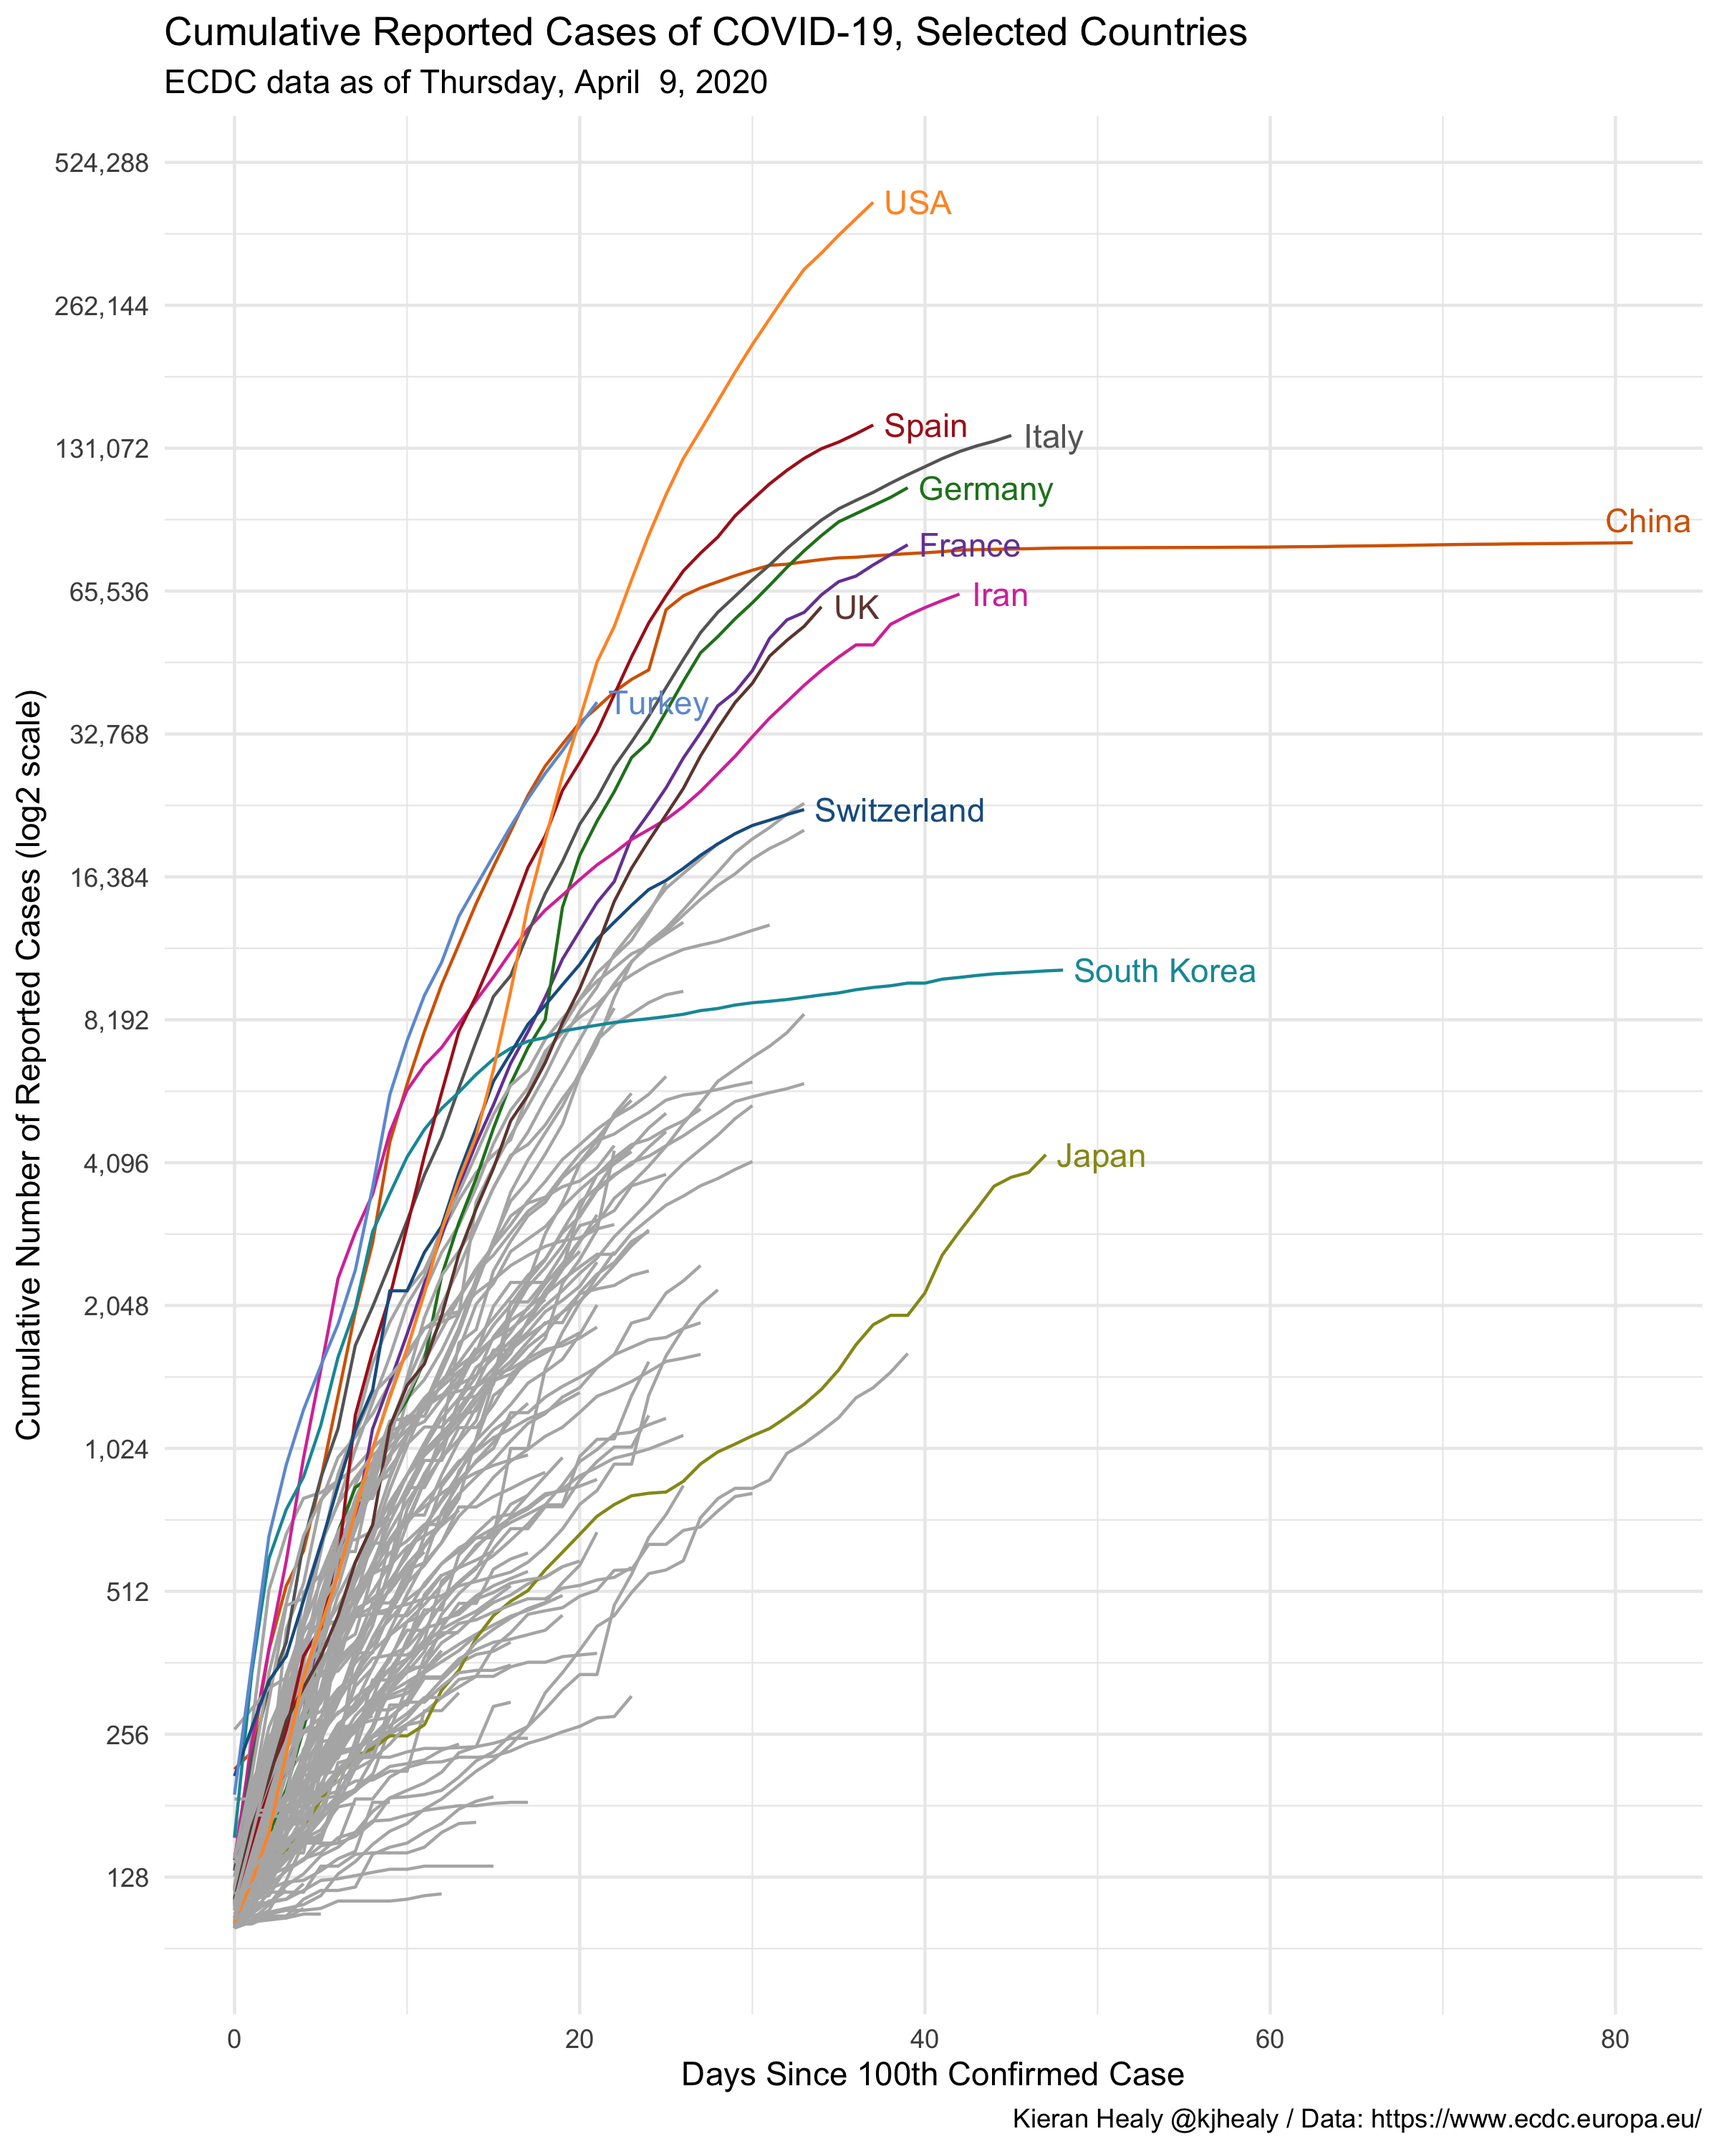
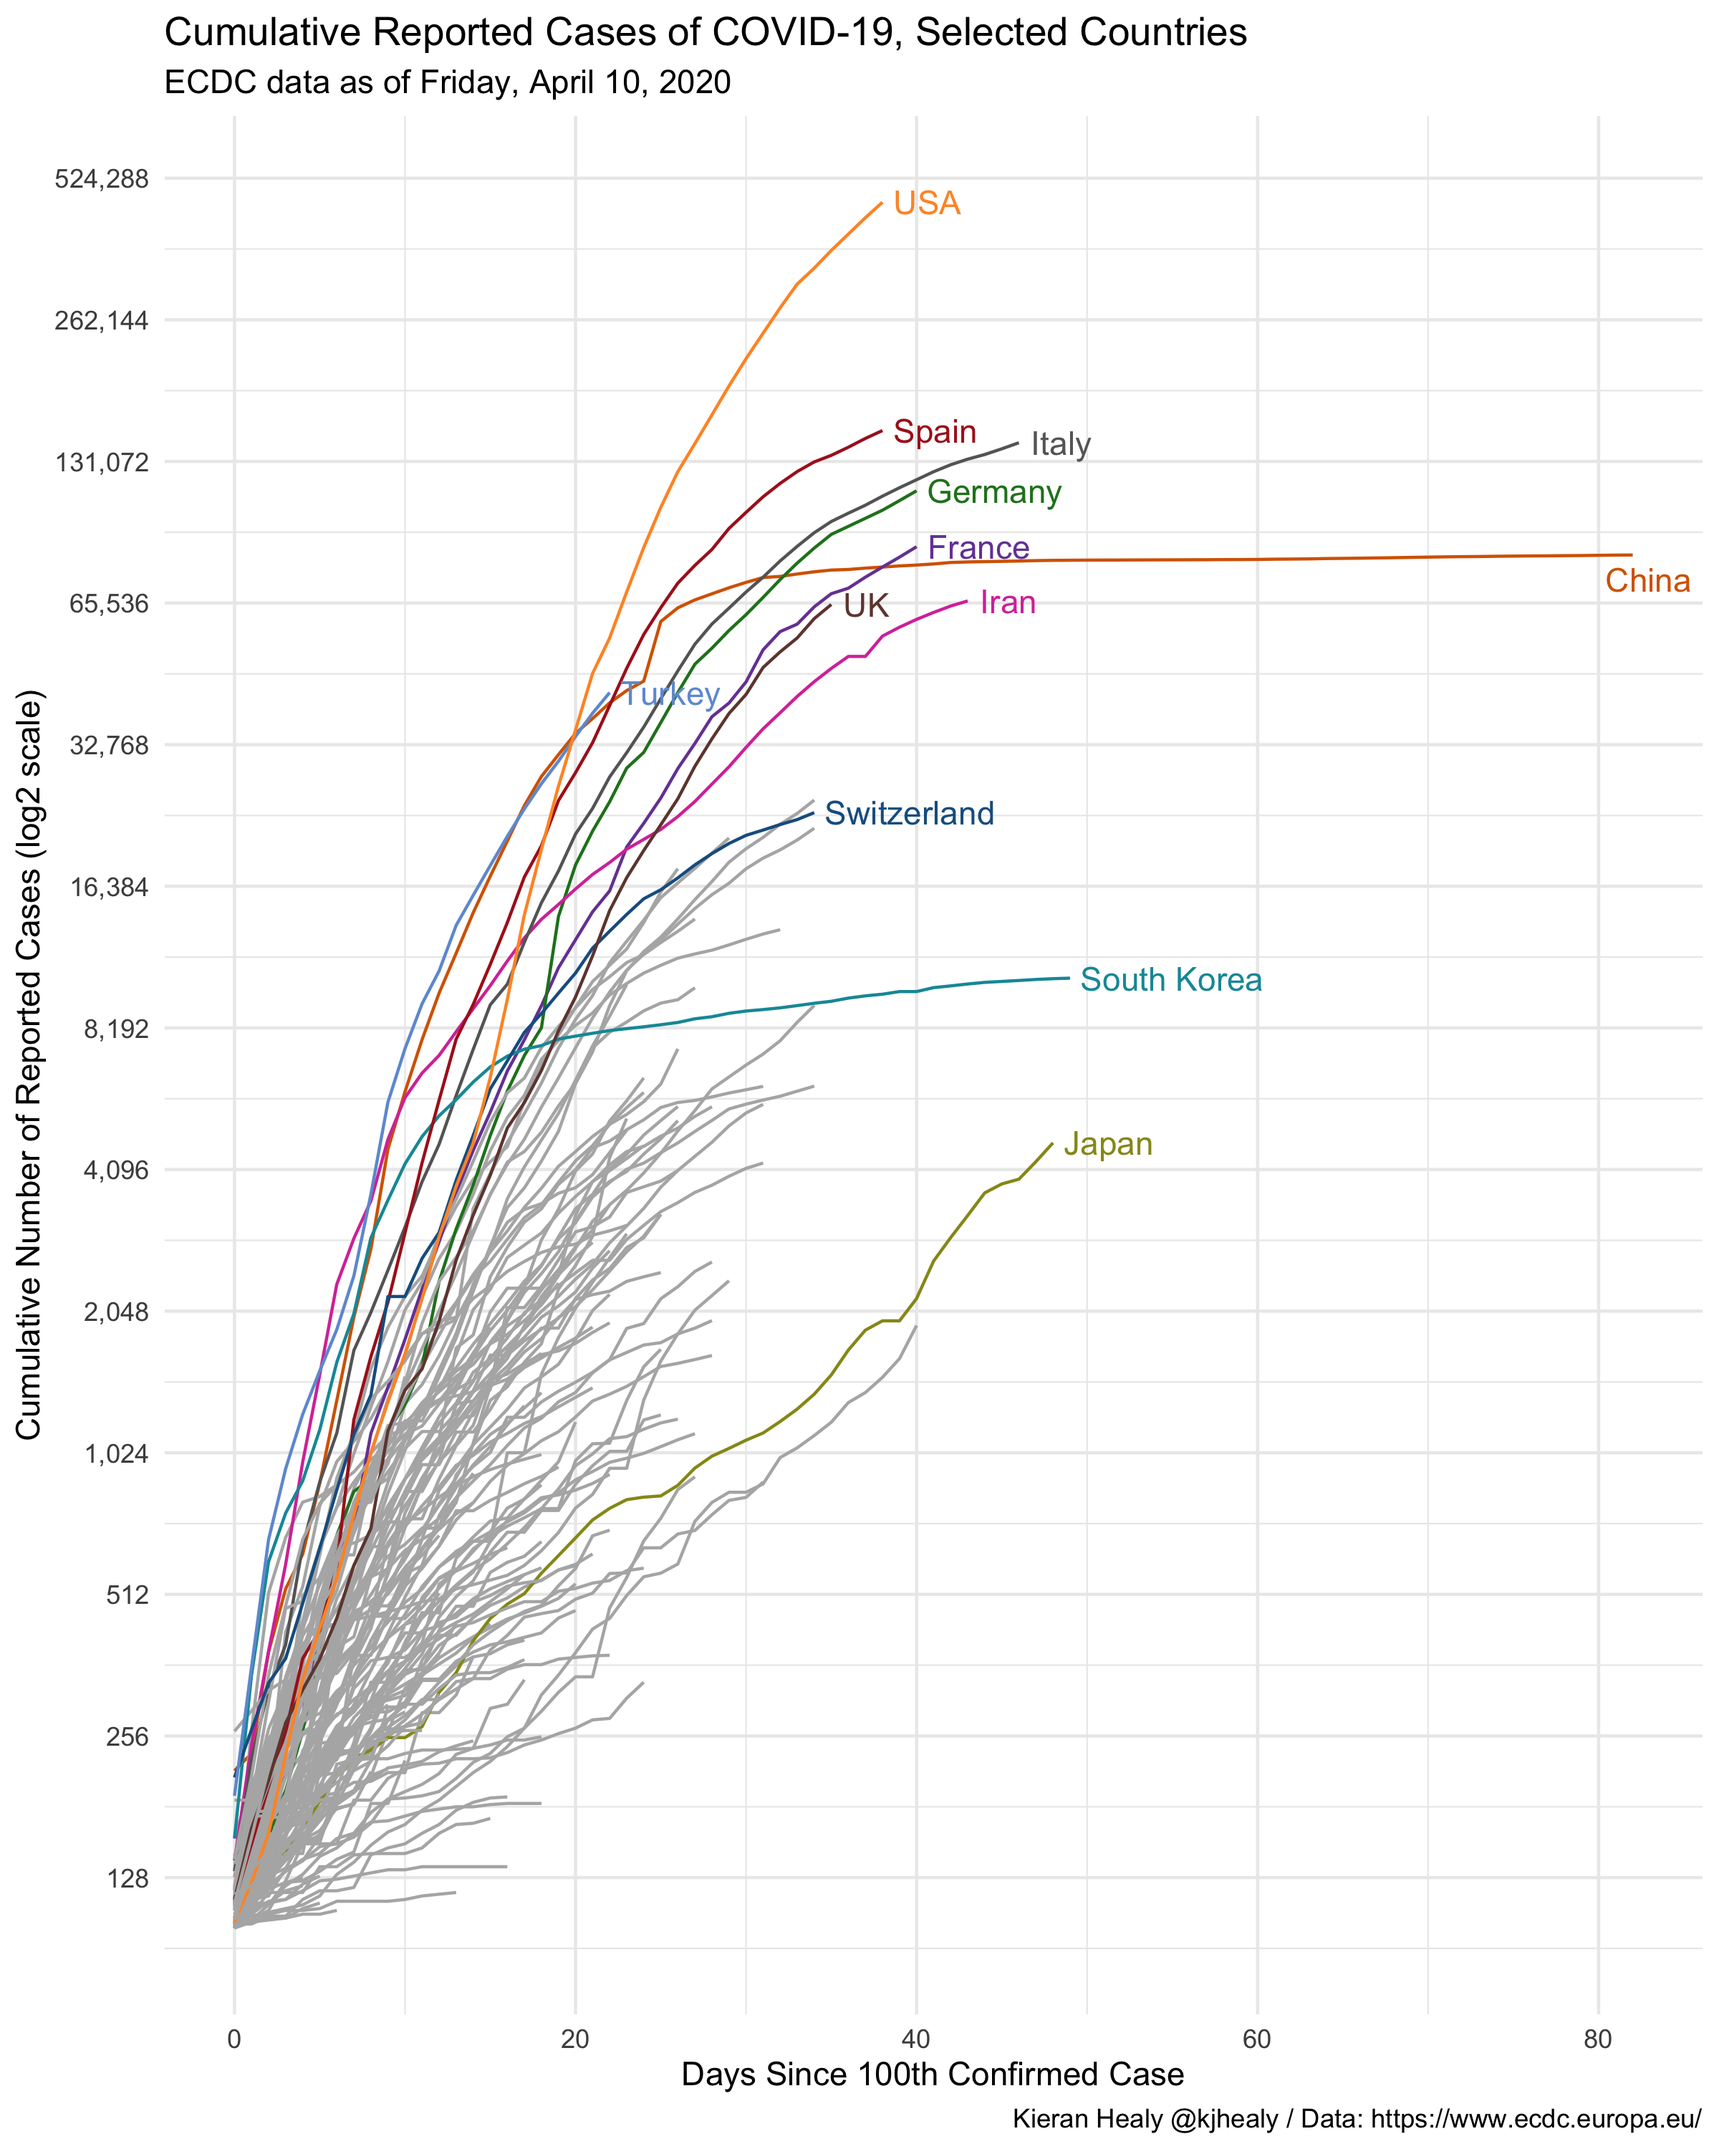
Auto-update date on build

diff --git a/README.md b/README.md
@@ -8,7 +8,7 @@
 [![Travis build status](https://travis-ci.com/kjhealy/covdata.svg?branch=master)](https://travis-ci.com/kjhealy/covdata)
 <!-- badges: end -->
 
-`covdata` is a data package for R. It provides COVID-19 case data from two sources: national level data from the [ECDC](https://www.ecdc.europa.eu/en), and state-level data for the United States from the [COVID Tracking Project](https://covidtracking.com). Data are current through April 9th, 2020.
+`covdata` is a data package for R. It provides COVID-19 case data from two sources: national level data from the [ECDC](https://www.ecdc.europa.eu/en), and state-level data for the United States from the [COVID Tracking Project](https://covidtracking.com). Data are current through Friday, April 10, 2020.
 
 ## Installation
 
@@ -72,8 +72,8 @@ library(covdata)
 
 ## National level tibble
 covnat
-#> # A tibble: 9,653 x 8
-#> # Groups:   iso3 [204]
+#> # A tibble: 9,858 x 8
+#> # Groups:   iso3 [205]
 #>    date       cname       iso3  cases deaths  pop_2018 cu_cases cu_deaths
 #>    <date>     <chr>       <chr> <dbl>  <dbl>     <dbl>    <dbl>     <dbl>
 #>  1 2019-12-31 Afghanistan AFG       0      0  37172386        0         0
@@ -86,7 +86,7 @@ covnat
 #>  8 2019-12-31 Belarus     BLR       0      0   9485386        0         0
 #>  9 2019-12-31 Belgium     BEL       0      0  11422068        0         0
 #> 10 2019-12-31 Brazil      BRA       0      0 209469333        0         0
-#> # … with 9,643 more rows
+#> # … with 9,848 more rows
 ```
 
 ### Draw a log-linear graph of cumulative reported cases
@@ -134,7 +134,7 @@ covnat %>%
        caption = "Kieran Healy @kjhealy / Data: https://www.ecdc.europa.eu/") +
   theme_minimal()
 #> Don't know how to automatically pick scale for object of type difftime. Defaulting to continuous.
-#> Warning: Removed 2634 rows containing missing values (geom_text_repel).
+#> Warning: Removed 2761 rows containing missing values (geom_text_repel).
 ```
 
 <img src="man/figures/README-example-1.png" title="plot of chunk example" alt="plot of chunk example" width="100%" />
